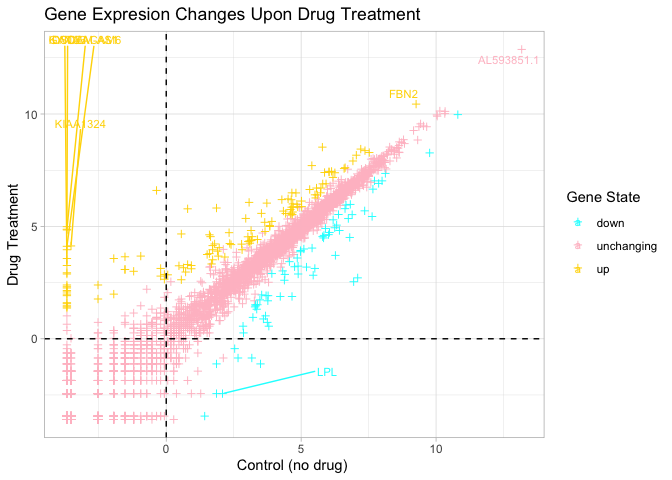
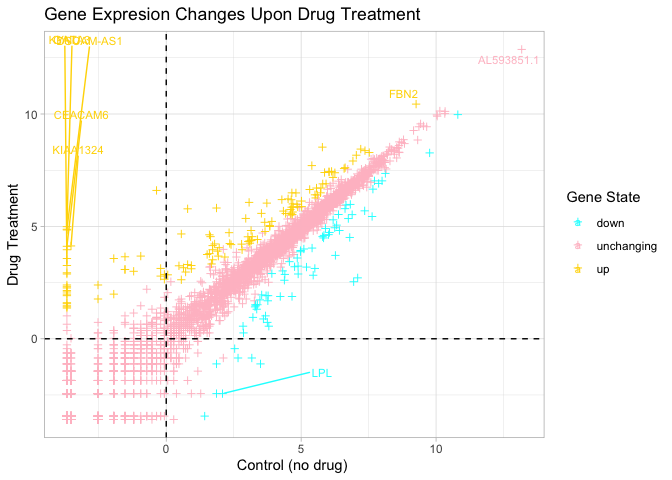
Changed formats hohoho

Changed region(s): [[0.0625, 0.0625, 0.1875, 0.4688], [0.4375, 0.75, 0.5, 0.7812], [0.4062, 0.7812, 0.4375, 0.8125]]

diff --git a/README.md b/README.md
@@ -5,7 +5,16 @@ Class work for bioinformatics class at UCSD. [BGGN213 at UC San Diego Super Good
 
 - Class 04: [R fundamentals]()
 - Class 05: [Data visualizations with goodgameplot()](class05/class05.md)
-- Class 06: [Writting R functions](class06/class06.pdf)
-- Class 07: [Machine learning for Bioinformatics Pt1](class07/class07.pdf)
-- Class 08: [Unsupervised learning minimini-project](class08/class08.pdf)
-- Class 09: [Machine learning for Bioinformatics Pt2](class09/class09.pdf)
+- Class 06: [Writting R functions](class06/class06.md)
+- Class 07: [Machine learning for Bioinformatics Pt1](class07/class07.md)
+- Class 08: [Unsupervised learning minimini-project](class08/class08.md)
+- Class 09: [Machine learning for Bioinformatics Pt2](class09/class09.md)
+- Class 10: [Halloween Candy Mini Project](class10/class10.md)
+- Class 11: [AlphaFold and Structural Prediction (pt2)](class11/class11.md)
+- Class 12: [Transcriptomics, RNA-Seq analysis, and the interpretation of gene lists](class12/class12.md)
+- Class 13: [RNA-Seq mini project](class13/class13.md)
+- Class 14: [Hands-on with Git and GitHub](class14/class14.md)
+- Class 15: [Essential UNIX for bioinformatics](class15/class15.md)
+- Class 16: [Analyzing sequencing data in the cloud](class16/class16.md)
+- Class 17: [Online-Only / Genome informatics and high throughput sequencing review](class17/class17.md)
+- Class 19: [Investigating pertussis resurgence mini project](class19/class19.md)
